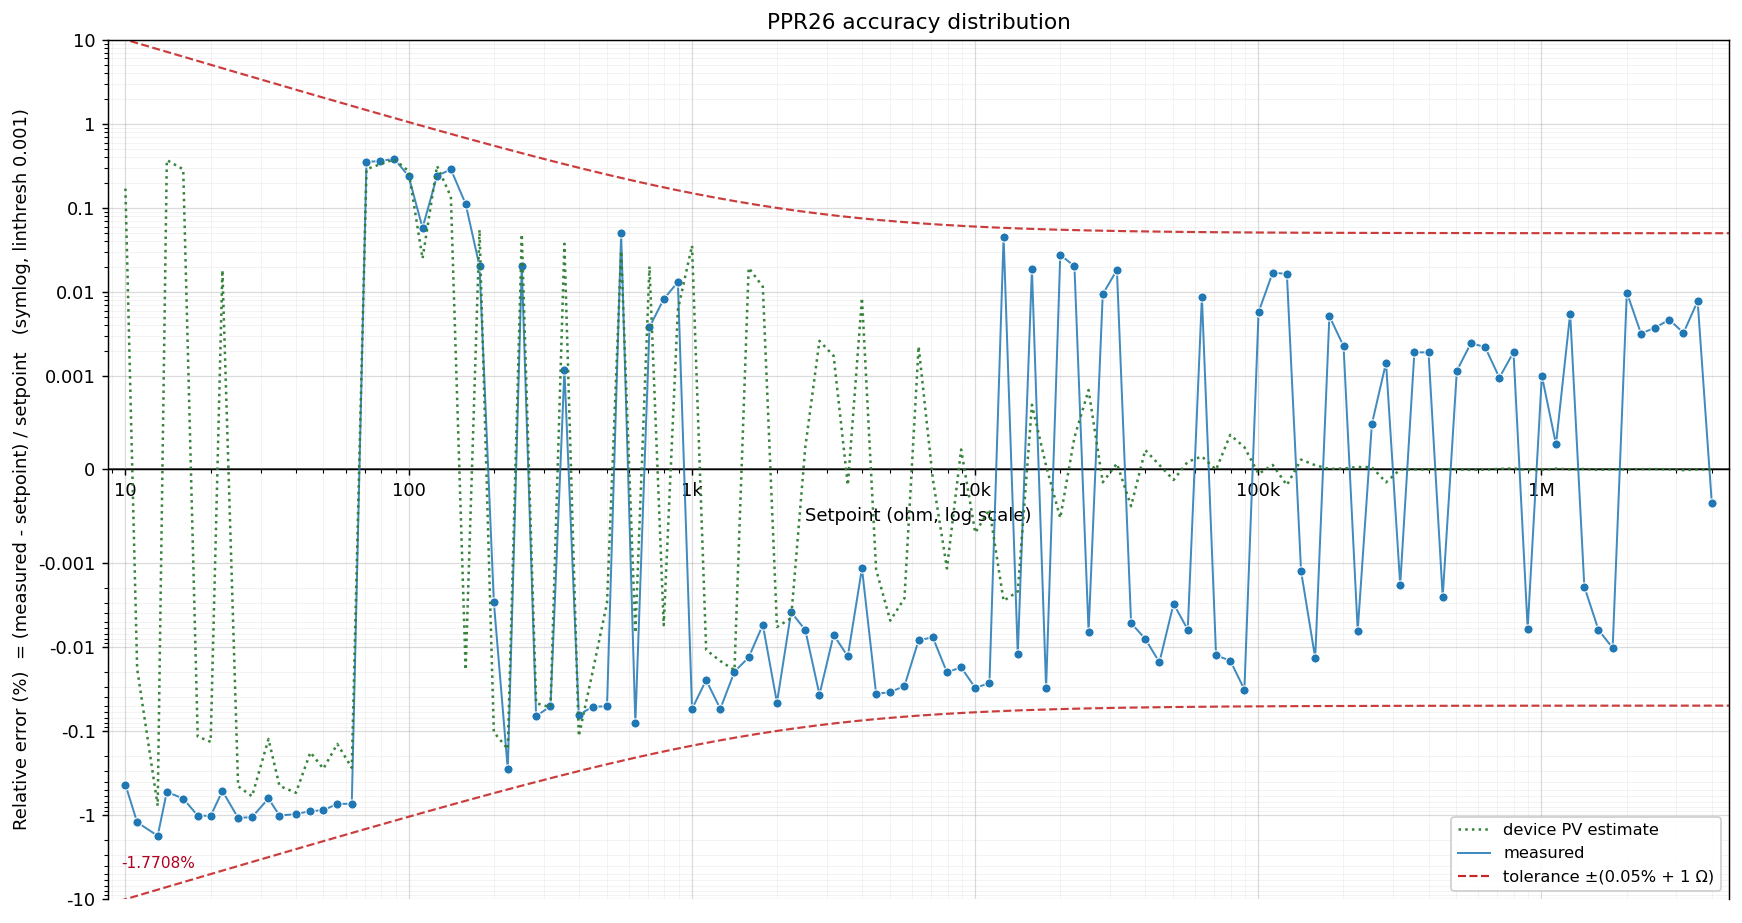
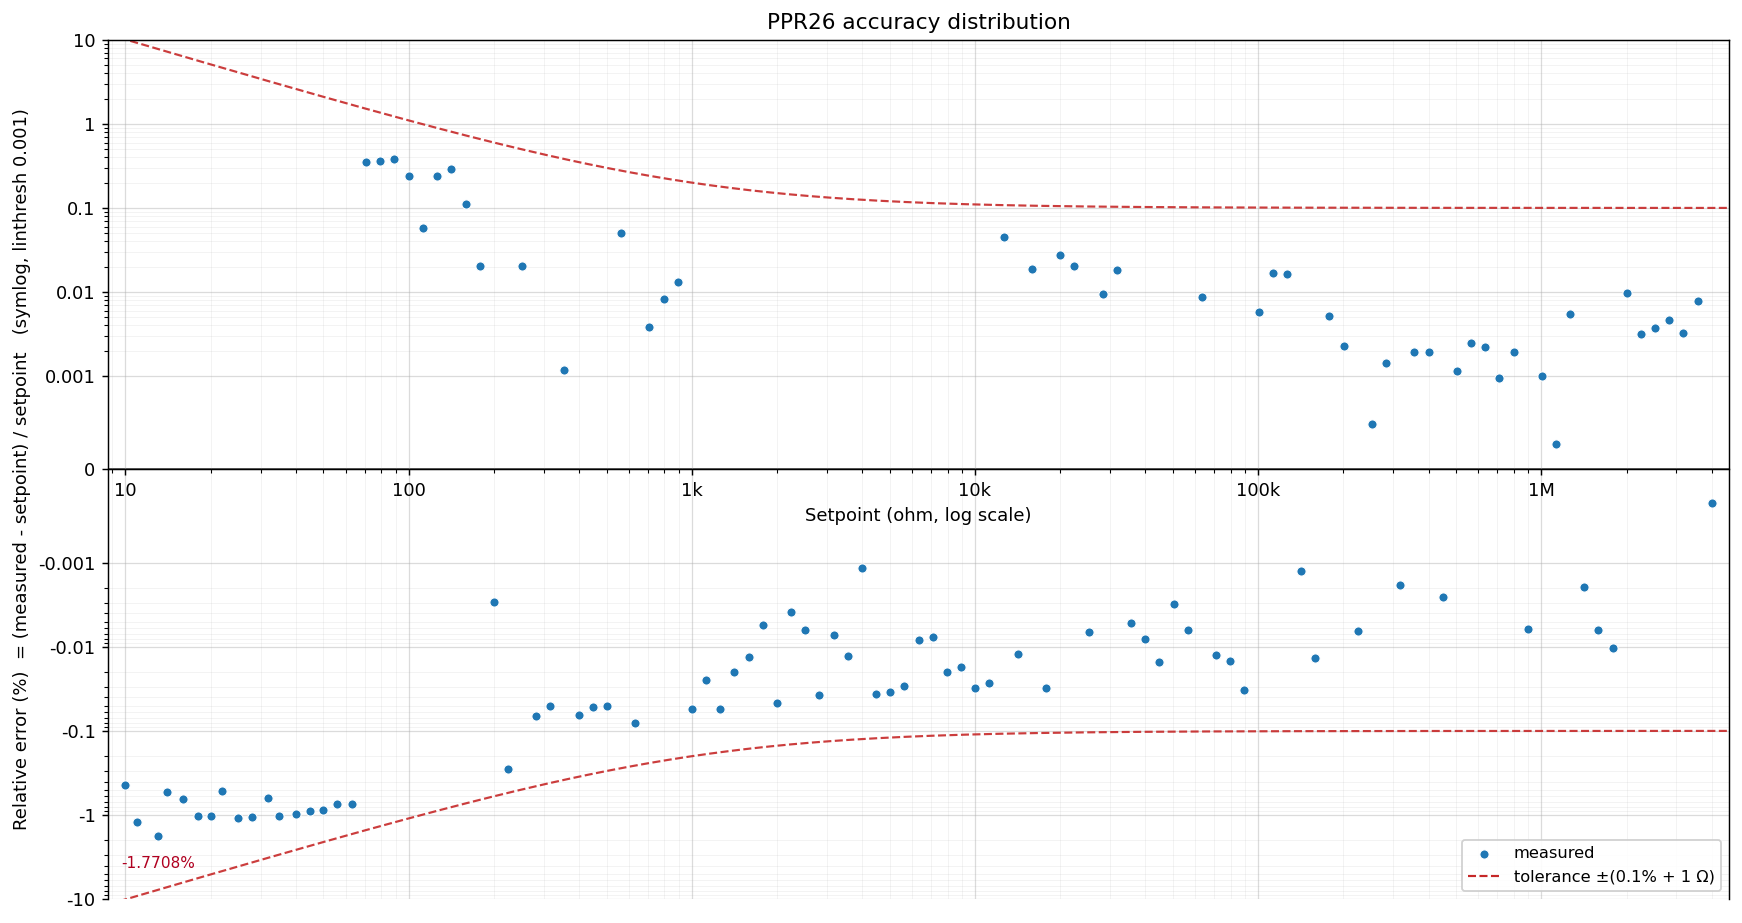
docs: 精度容限统一为 ±(0.1% + 1 Ω)，示例图改为散点且不含 PV 曲线
- 设备规格与精度测试页的容限口径由 ±(0.05% + 1 Ω) 统一改为 ±(0.1% + 1 Ω)，
  同步更新换算公式（0.1 + 100/x）与关键点容限值（10 Ω ±1.01 Ω、1 kΩ ±2 Ω、100 kΩ ±101 Ω）
- 出厂精度报告示例改用散点图（--tol 0.1 1 --style scatter --no-pv）并重算判定结论：
  113/113 点在容限内，最差点 224 Ω（−0.64 Ω = −0.29%，用掉容限 53%）
- 文档内绘图片段与示例图风格一致（散点、不叠加 PV 曲线）

diff --git a/docs/docs/en/reference/scripts/accuracy.md b/docs/docs/en/reference/scripts/accuracy.md
@@ -11,10 +11,10 @@ respect to the device: it never touches the calibration store.
 | Device | PPR26 in **AT mode** (USB CDC virtual serial port) |
 | Reference meter | 6½-digit or better DMM, e.g. HP / Agilent 34401A / 34410A / 34411A |
 | Wiring | 4-wire: DMM 4W terminals to the PPR26 front-panel Sense / Output terminals (polarity does not matter) |
-| Acceptance limit | Factory specification **±(0.05% × setpoint + 1 Ω)**, see [Specifications](../../datasheet/index.md) |
+| Acceptance limit | Factory specification **±(0.1% × setpoint + 1 Ω)**, see [Specifications](../../datasheet/index.md) |
 
 !!! warning "The reference meter sets the ceiling on what you can measure"
-    To verify a limit like ±(0.05% + 1 Ω), the reference meter itself must be clearly better than the
+    To verify a limit like ±(0.1% + 1 Ω), the reference meter itself must be clearly better than the
     limit under test (a third of it or less is a common rule). A 34410A is specified for
     0.0035% (reading) + 0.0009% (range) on 4-wire resistance over one year, which leaves plenty of margin.
 
@@ -571,10 +571,10 @@ settings, timestamp), followed by the data table:
 ## Reading the result
 
 Plot the CSV as setpoint (log X) against relative error (Y) and overlay the acceptance limit; a glance then
-shows whether the unit passes. The limit is **a curve**: `±(0.05% × setpoint + 1 Ω)` converts to the Y-axis
-percentage as `0.05 + 0.1 × 1000/x` — at 10 Ω the absolute term is worth 10%, at 1 kΩ only 0.1%, and above
-that the percentage term dominates and the curve flattens to ±0.05%. **The low end is judged on absolute
-accuracy, the high end on relative accuracy** — one curve says both.
+shows whether the unit passes. The limit is **a curve**: `±(0.1% × setpoint + 1 Ω)` converts to the Y-axis
+percentage as `0.1 + 100/x` — at 10 Ω the absolute term is worth 10% (10.1% in total), at 1 kΩ it is 0.1%
+(0.2% in total), and above that the percentage term dominates and the curve flattens to ±0.1%.
+**The low end is judged on absolute accuracy, the high end on relative accuracy** — one curve says both.
 
 The example data in this documentation (see the factory report example in
 [Specifications](../../datasheet/index.md)) can be re-plotted directly:
@@ -599,10 +599,10 @@ ax.set_xscale("log")
 ax.set_yscale("symlog", linthresh=0.001)      # the error crosses zero, so a signed log axis
 ax.set_ylim(-10, 10)                          # fixed ±10% window, comparable across units
 ax.axhline(0, color="k", lw=0.8)
-ax.plot(x, y, "o-", ms=3, lw=1, label="measured")
-for sign in (1, -1):                          # acceptance limit: ±(0.05% x setpoint + 1 ohm)
-    ax.plot(x, [sign * (0.05 + 1000.0 / v) for v in x], "r--", lw=1,
-            label="tolerance ±(0.05% + 1 Ω)" if sign > 0 else None)
+ax.plot(x, y, "o", ms=4, label="measured")
+for sign in (1, -1):                          # acceptance limit: ±(0.1% x setpoint + 1 ohm)
+    ax.plot(x, [sign * (0.1 + 100.0 / v) for v in x], "r--", lw=1,
+            label="tolerance ±(0.1% + 1 Ω)" if sign > 0 else None)
 ax.set_xlabel("Setpoint (ohm, log scale)")
 ax.set_ylabel("Relative error (%)")
 ax.legend()

diff --git a/docs/docs/zh_CN/reference/scripts/accuracy.md b/docs/docs/zh_CN/reference/scripts/accuracy.md
@@ -10,10 +10,10 @@
 | 设备 | PPR26，工作在 **AT 模式**（USB CDC 虚拟串口） |
 | 参考表 | 6½ 位以上数字表，如 HP / Agilent 34401A / 34410A / 34411A |
 | 接线 | 四线：数字表 4W 端接 PPR26 前面板的 Sense / Output 端子（不区分极性） |
-| 判定标准 | 出厂指标 **±(0.05% × 设定值 + 1 Ω)**，见[设备规格](../../datasheet/index.md) |
+| 判定标准 | 出厂指标 **±(0.1% × 设定值 + 1 Ω)**，见[设备规格](../../datasheet/index.md) |
 
 !!! warning "参考表决定了测量结果的上限"
-    要验证 ±(0.05% + 1 Ω) 这样的指标，参考表自身的准确度应明显优于被测容限（一般取 1/3 以下）。
+    要验证 ±(0.1% + 1 Ω) 这样的指标，参考表自身的准确度应明显优于被测容限（一般取 1/3 以下）。
     34410A 在四线电阻模式下的 1 年准确度为 0.0035%（读值）+ 0.0009%（量程）量级，余量充足。
 
 ## 测试方法
@@ -556,9 +556,9 @@ python ppr26_accuracy_test.py                               # 完整测试（276
 ## 结果判读
 
 把 CSV 画成「横轴设定值（对数）、纵轴相对误差」的分布图，并在同一张图上叠加判定容限曲线
-即可一眼看出是否合格。容限是**一条曲线**：`±(0.05% × 设定值 + 1 Ω)` 换算成纵轴的百分比就是
-`0.05 + 0.1 × 1000/x` —— 10 Ω 处绝对项折合 10%，1 kΩ 处只剩 0.1%，再往上百分比项主导，
-曲线压平到 ±0.05%。**低阻端看绝对精度、高阻端看相对精度**，一条曲线把两件事说清。
+即可一眼看出是否合格。容限是**一条曲线**：`±(0.1% × 设定值 + 1 Ω)` 换算成纵轴的百分比就是
+`0.1 + 100/x` —— 10 Ω 处绝对项折合 10%（合计 10.1%），1 kΩ 处绝对项 0.1%（合计 0.2%），
+再往上百分比项主导，曲线压平到 ±0.1%。**低阻端看绝对精度、高阻端看相对精度**，一条曲线把两件事说清。
 
 用本文档示例数据（见[设备规格](../../datasheet/index.md)中的出厂报告示例）可以直接复现这张图：
 
@@ -582,10 +582,10 @@ ax.set_xscale("log")
 ax.set_yscale("symlog", linthresh=0.001)      # 数据跨零，必须用带符号对数轴
 ax.set_ylim(-10, 10)                          # 固定 ±10% 窗口，便于不同设备之间比较
 ax.axhline(0, color="k", lw=0.8)
-ax.plot(x, y, "o-", ms=3, lw=1, label="measured")
-for sign in (1, -1):                          # 判定容限：±(0.05% x 设定值 + 1 Ω)
-    ax.plot(x, [sign * (0.05 + 1000.0 / v) for v in x], "r--", lw=1,
-            label="tolerance ±(0.05% + 1 Ω)" if sign > 0 else None)
+ax.plot(x, y, "o", ms=4, label="measured")
+for sign in (1, -1):                          # 判定容限：±(0.1% x 设定值 + 1 Ω)
+    ax.plot(x, [sign * (0.1 + 100.0 / v) for v in x], "r--", lw=1,
+            label="tolerance ±(0.1% + 1 Ω)" if sign > 0 else None)
 ax.set_xlabel("Setpoint (ohm, log scale)")
 ax.set_ylabel("Relative error (%)")
 ax.legend()

diff --git a/docs/docs/en/datasheet/index.md b/docs/docs/en/datasheet/index.md
@@ -43,13 +43,13 @@ report** (format shown below).
 
 | Item | Description |
 | ---- | ---- |
-| Factory accuracy | **±(0.05% × setpoint + 1 Ω)** |
+| Factory accuracy | **±(0.1% × setpoint + 1 Ω)** |
 | Test range | 10 Ω ~ 4 MΩ, log-uniform setpoints (20 per decade, 113 points), rounded to 1 Ω |
 | Measurement | 4-wire, 6½-digit DMM (e.g. Agilent 34410A) |
 | Pass criterion | Every test point inside the tolerance |
 
-The tolerance is a curve: the absolute term (1 Ω) dominates at the low end and the percentage term (0.05%)
-at the high end — about ±1.05 Ω (±10.5%) at 10 Ω, ±1.5 Ω (±0.15%) at 1 kΩ, and ±51 Ω (±0.05%) at 100 kΩ.
+The tolerance is a curve: the absolute term (1 Ω) dominates at the low end and the percentage term (0.1%)
+at the high end — about ±1.01 Ω (±10.1%) at 10 Ω, ±2 Ω (±0.2%) at 1 kΩ, and ±101 Ω (±0.101%) at 100 kΩ.
 
 !!! warning "Accuracy degrades over time — recalibration is required"
     The factory accuracy is the specification **as shipped**. Two effects make the error grow over time:
@@ -89,7 +89,7 @@ one PPR26, **with serial numbers and similar identifiers removed**.
 | Sweep range | 10 Ω ~ 4 MΩ, log-uniform, rounded to 1 Ω |
 | Test points | 113 (20 per decade) |
 | Per point | Settle 5 s, 8 readings averaged, NPLC 10 |
-| Acceptance limit | ±(0.05% × setpoint + 1 Ω) |
+| Acceptance limit | ±(0.1% × setpoint + 1 Ω) |
 
 **③ Result summary**
 
@@ -101,8 +101,8 @@ one PPR26, **with serial numbers and similar identifiers removed**.
 | 10 k ~ 100 kΩ | −0.032% ~ +0.046% | 28.8 Ω | Pass |
 | 100 kΩ ~ 4 MΩ | −0.014% ~ +0.017% | 277 Ω | Pass |
 
-**Verdict: pass** — 113/113 points inside ±(0.05% + 1 Ω); the worst point is 12.622 kΩ
-(+5.76 Ω = +0.046%, where the limit is ±7.31 Ω, i.e. 79% of the tolerance budget used).
+**Verdict: pass** — 113/113 points inside ±(0.1% + 1 Ω); the worst point is 224 Ω
+(−0.64 Ω = −0.29%, where the limit is ±1.22 Ω, i.e. 53% of the tolerance budget used).
 
 **④ Accuracy distribution plot**
 
@@ -110,9 +110,8 @@ one PPR26, **with serial numbers and similar identifiers removed**.
 
 **⑤ Notes**
 
-- Blue is the DMM measurement, the red dashed curves are the acceptance limit ±(0.05% + 1 Ω), and the
-  green dotted trace is the **device's own estimate** (`AT+RES.PV?`); the gap between green and blue is
-  the error the calibration table cannot see (contact resistance, thermal drift).
+- Blue dots are the DMM measurement and the red dashed curves are the acceptance limit ±(0.1% + 1 Ω):
+  every point inside the curves means the unit passes.
 - The large *relative* errors at the low end (10 ~ 100 Ω) are 1 Ω quantisation steps; the absolute error
   stays within the 1 Ω limit. See the [accuracy test script](../reference/scripts/accuracy.md) for how to
   read this.
